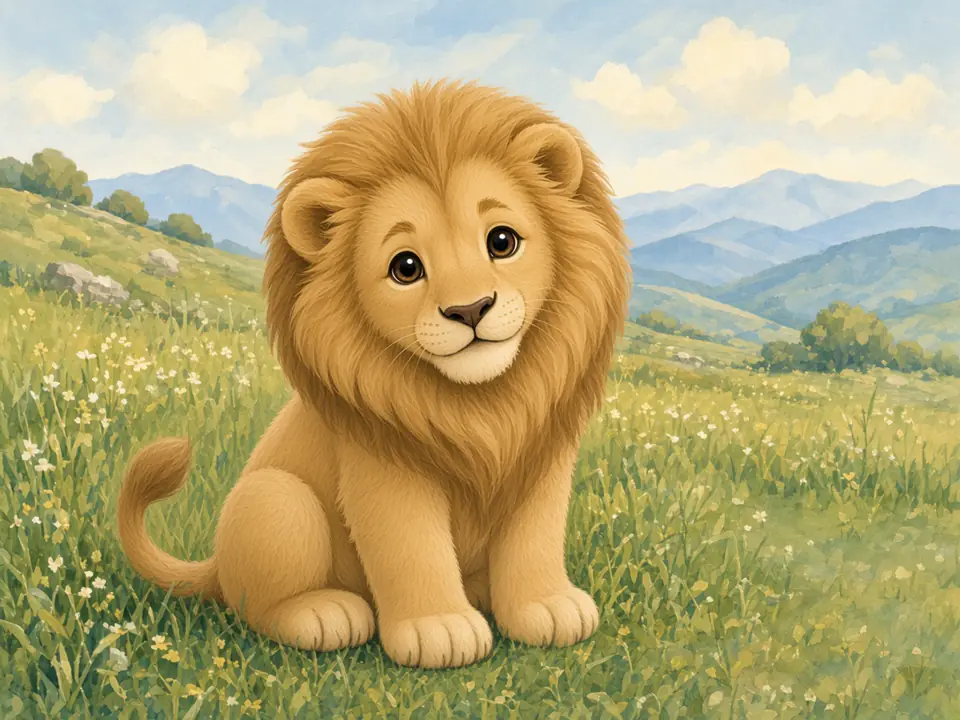
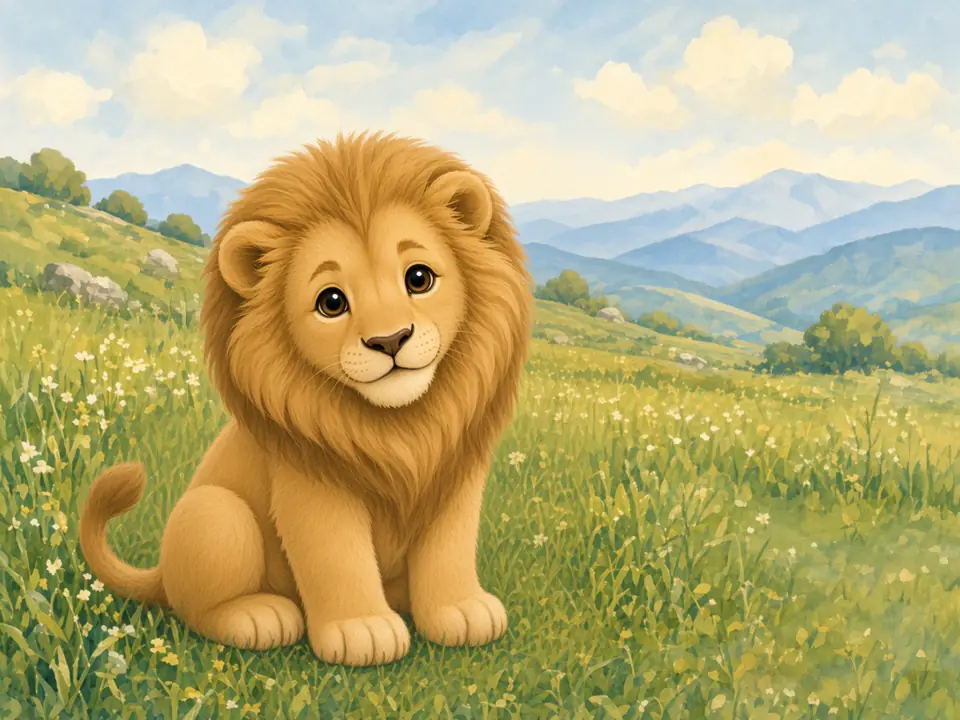
Recompose Meet paintings around the centered letter bubble.
The fidel stays the large centered pop-bubble. Picture-word scenes now leave the middle open so the subject stays visible around it.

diff --git a/docs/school-path.md b/docs/school-path.md
@@ -24,10 +24,11 @@ is the family it introduces. Blends stay hidden until every family in the
 word is learned.
 
 On that first Meet card the picture-word painting (`public/art/meet`,
-original gouache) is the background, and the fidel stays a large foreground
-bubble so the letter is what the child reads. The Ge'ez word and English
-gloss stay under the card. The other six vowels in the family use the plain
-sky. Amharic Meet is unchanged.
+original gouache) is the background, and the fidel stays a large centered
+bubble. The paintings leave the middle open so the animal or object is
+visible around that bubble. The Ge'ez word and English gloss stay under the
+card. The other six vowels in the family use the plain sky. Amharic Meet is
+unchanged.
 
 ## How it turns on
 
